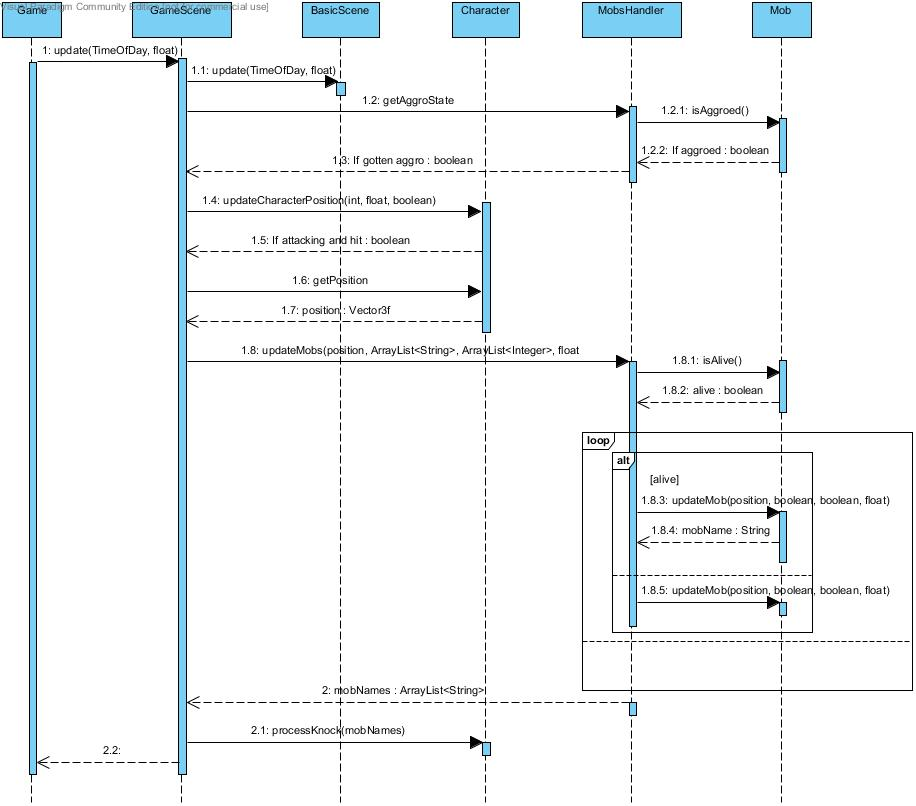
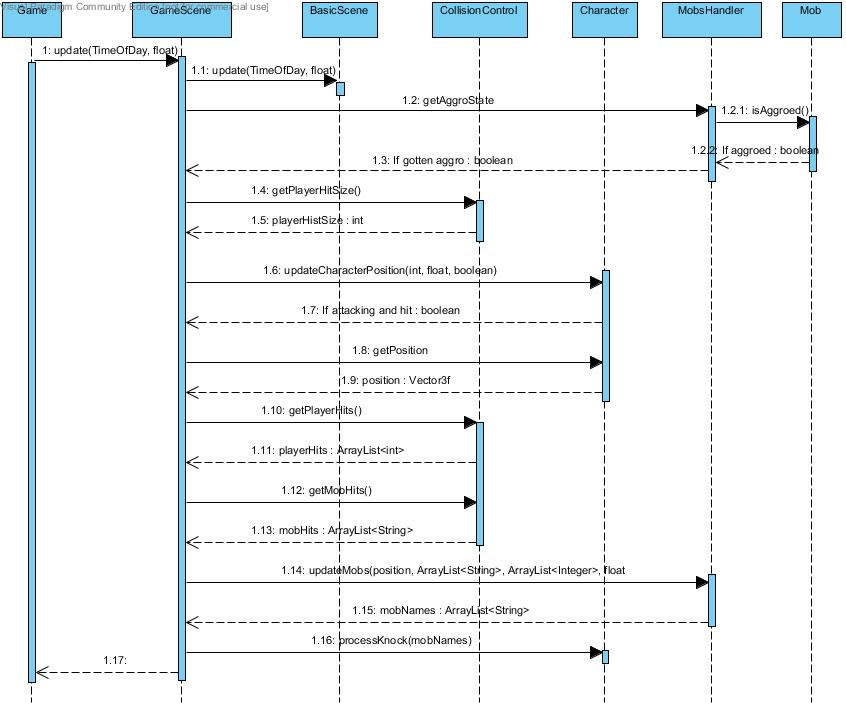
updated scene update sequence diagram

diff --git a/Documentation/Functional requirements and application design.tex b/Documentation/Functional requirements and application design.tex
@@ -142,6 +142,8 @@
 			22/08/2014  \> Version 2.0  \> Added the Client and Server Sequence Diagram	\> Martin Schoeman\\
 			22/08/2014  \> Version 2.0  \> Added GUI sequence Diagram					\> Martin Schoeman\\
 			22/08/2014  \> Version 2.0  \> Added unit testing code documentation.		\> Martin Schoeman\\
+			10/08/2014	\> Version 2.0	\> Added game activity diagram					\> Nico Taljaard\\
+			11/092014	\> Version 3.0	\> Updated scene sequence diagram				\> Nico Taljaard\\
 		\end{tabbing}
 		
 	\newpage
